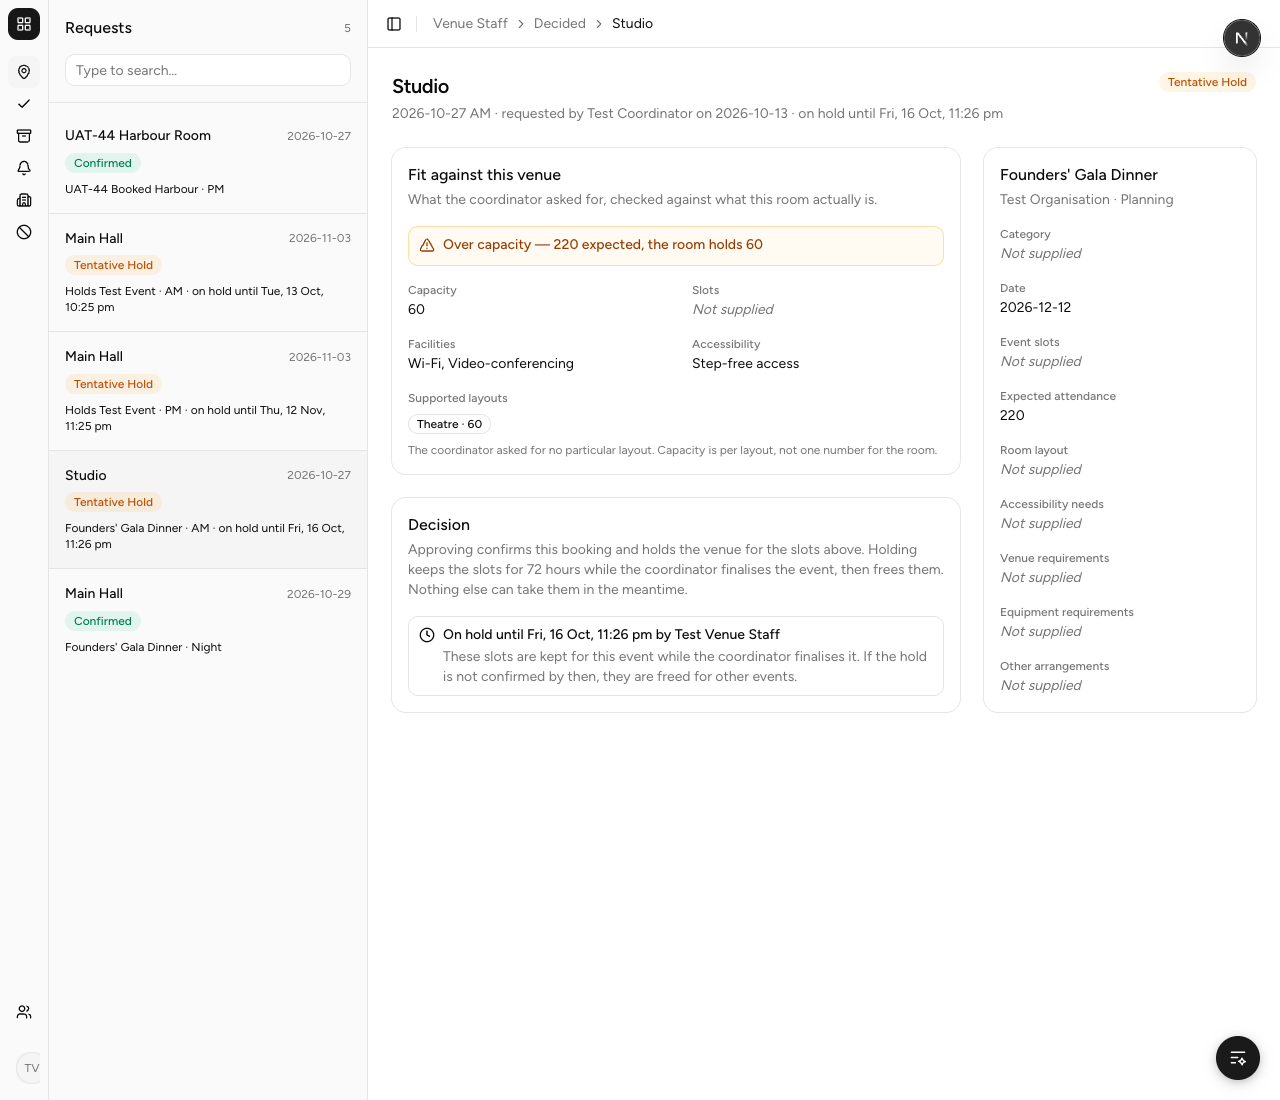
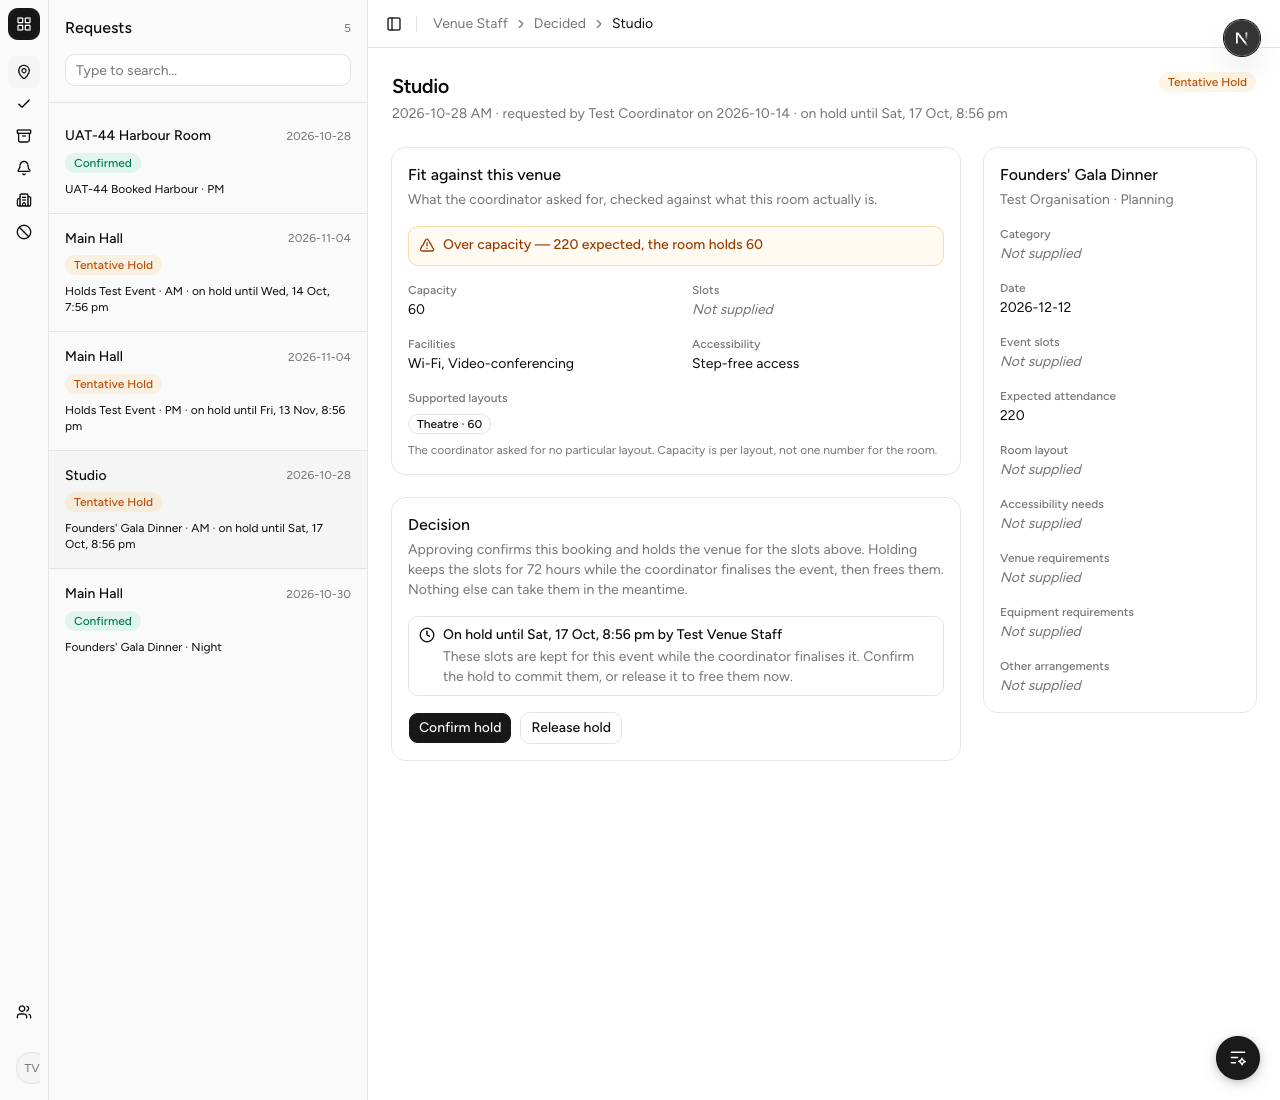
docs(testing): add venue hold cases 006 to 009 (SPM-219)
Confirm, release, a hold that ran out, and a block recorded after the hold.

diff --git a/docs/testing/VENUE_HOLD_MANUAL_TESTS.md b/docs/testing/VENUE_HOLD_MANUAL_TESTS.md
@@ -1,8 +1,9 @@
-# Venue Hold Manual Tests (SPM-218)
+# Venue Hold Manual Tests (SPM-218, SPM-219)
 
 ## Overview
 
-Browser checks for **SPM-218: Place a tentative hold on a venue slot**. Venue
+Browser checks for **SPM-218: Place a tentative hold on a venue slot** and **SPM-219: Confirm or
+release a tentative hold**. Venue
 Staff place a hold on a booking request while the Event Coordinator is
 finalising the event. The hold keeps the request's slots from everyone else for
 72 hours (`DEFAULT_HOLD_HOURS`), and then lapses (SPM-253). The rules behind it
@@ -10,14 +11,14 @@ are unit-tested (`decideBooking placing a hold (SPM-218)` and the use case, mapp
 repository tests tagged SPM-218) and the database function was proven on a scratch
 Postgres; these cases check the pages end to end against Supabase.
 
-These cases are registered as `TC-VHOLD-001`–`TC-VHOLD-005` in
+These cases are registered as `TC-VHOLD-001`–`TC-VHOLD-009` in
 [`../tests/manual-registry.csv`](../tests/manual-registry.csv). Report what you ran in the
 PR description's `## Manual test results` table; CI records it in
 [`manual-runs.csv`](../tests/manual-runs.csv) when the PR merges, so do not edit that file.
 The ticked boxes and screenshots below are the working record for this run.
 
-Confirming or releasing a hold is SPM-219, and a hold lapsing is SPM-253, so no case
-here confirms, releases or waits out a hold. A held booking is listed under **Decided**,
+A hold lapsing on its own is SPM-253, so no case waits out a hold: TC-VHOLD-008 sets an
+expiry in the past with SQL instead. A held booking is listed under **Decided**,
 beside Confirmed ones; the list filters did not change.
 
 ## Setup
@@ -97,8 +98,8 @@ The cases read the database with SQL. Run a query with
 
 ### Order
 
-Run the cases in order, TC-VHOLD-001 to 005: TC-VHOLD-002 and 005 start from the hold TC-VHOLD-001
-placed. Each case changes the data, so to run any of them again go back to step 1.
+Run the cases in order, TC-VHOLD-001 to 009: TC-VHOLD-002 and 005 start from the hold TC-VHOLD-001
+placed, TC-VHOLD-006 confirms that hold, TC-VHOLD-007 releases the one TC-VHOLD-002 placed, TC-VHOLD-008 uses booking C, and TC-VHOLD-009 uses booking D, held in TC-VHOLD-004. Each case changes the data, so to run any of them again go back to step 1.
 
 ---
 
@@ -126,14 +127,14 @@ placed. Each case changes the data, so to run any of them again go back to step 
 **Expected Result:**
 - Step 1: the Decision card offers **Approve booking**, **Place hold** and **Reject**.
 - Step 2: the card reads "On hold until <day, time> by Test Venue Staff", the header says
-  the same, the badge reads **Tentative Hold**, and no decision buttons remain (AC1).
+  the same, the badge reads **Tentative Hold**, and **Approve booking**, **Place hold** and **Reject** are gone. **Confirm hold** and **Release hold** are offered instead (SPM-219, see TC-VHOLD-006 and 007) (AC1).
 - Step 3: booking A has left **Requests** and is listed in **Decided** as "on hold until …" (AC3).
 - Step 4: the Studio row on *Booking requests for this event* shows **Tentative Hold** with
   "On hold until …" under it (AC3).
 - Step 5: `Tentative Hold`, about 72 hours left (between 71 and 73), decided by Test Venue Staff, and
   one audit row, `hold` (AC1).
 
-**Status:** [x] Pass [ ] Fail — 13/10/2026, run in Chrome via Playwright for JameszLau
+**Status:** [x] Pass [ ] Fail — 14/10/2026, run in Chrome via Playwright for JameszLau
 
 **Screenshots:** [step1-decision-card-with-hold](../screenshots/2026-10-13_TC-VHOLD-001_step1-decision-card-with-hold.png) · [step2-on-hold-card](../screenshots/2026-10-13_TC-VHOLD-001_step2-on-hold-card.png) · [step3-decided-list](../screenshots/2026-10-13_TC-VHOLD-001_step3-decided-list.png) · [step4-coordinator-row](../screenshots/2026-10-13_TC-VHOLD-001_step4-coordinator-row.png)
 
@@ -160,7 +161,7 @@ placed. Each case changes the data, so to run any of them again go back to step 
 - Booking B was **Requested** beside booking A when A was held: a request still waiting
   blocks nothing, so it did not stop the hold (AC2).
 
-**Status:** [x] Pass [ ] Fail — 13/10/2026, run in Chrome via Playwright for JameszLau
+**Status:** [x] Pass [ ] Fail — 14/10/2026, run in Chrome via Playwright for JameszLau
 
 **Screenshots:** [step1-search-lists-harbour-room](../screenshots/2026-10-13_TC-VHOLD-002_step1-search-lists-harbour-room.png) · [step3-search-without-harbour-room](../screenshots/2026-10-13_TC-VHOLD-002_step3-search-without-harbour-room.png) · [step4-second-hold-refused](../screenshots/2026-10-13_TC-VHOLD-002_step4-second-hold-refused.png) · [step5-other-slot-unaffected](../screenshots/2026-10-13_TC-VHOLD-002_step5-other-slot-unaffected.png)
 
@@ -186,7 +187,7 @@ placed. Each case changes the data, so to run any of them again go back to step 
 - Step 2: refused with "The venue is unavailable for <T + 6> AM" (AC2).
 - Step 3: both are `Requested` with no expiry, and no audit rows (AC2).
 
-**Status:** [x] Pass [ ] Fail — 13/10/2026, run in Chrome via Playwright for JameszLau
+**Status:** [x] Pass [ ] Fail — 14/10/2026, run in Chrome via Playwright for JameszLau
 
 **Screenshots:** [step1-clash-with-confirmed](../screenshots/2026-10-13_TC-VHOLD-003_step1-clash-with-confirmed.png) · [step2-blocked-slot](../screenshots/2026-10-13_TC-VHOLD-003_step2-blocked-slot.png)
 
@@ -214,7 +215,7 @@ placed. Each case changes the data, so to run any of them again go back to step 
 - Step 2: accepted: booking D reads "On hold until …" (AC2).
 - Step 3: the expired hold on the AM slot is now `Released`, with a `release expired hold` audit row; the live PM hold is unchanged and booking D is `Tentative Hold` (AC2).
 
-**Status:** [x] Pass [ ] Fail — 13/10/2026, run in Chrome via Playwright for JameszLau
+**Status:** [x] Pass [ ] Fail — 14/10/2026, run in Chrome via Playwright for JameszLau
 
 **Screenshots:** [step1-live-hold-refuses](../screenshots/2026-10-13_TC-VHOLD-004_step1-live-hold-refuses.png) · [step2-expired-hold-does-not-block](../screenshots/2026-10-13_TC-VHOLD-004_step2-expired-hold-does-not-block.png)
 
@@ -222,7 +223,7 @@ placed. Each case changes the data, so to run any of them again go back to step 
 
 ### TC-VHOLD-005: Only Venue Staff, and only a waiting request (AC1, AC4)
 
-**What this tests:** Who may place a hold, and on what. Only Venue Staff can: the coordinator is turned away with an access-denied page (403) and sees none of the booking, and nothing changes. And only a request still *waiting* can be held: a booking already on hold (booking A) or already Confirmed (booking X) shows no Place hold button, or any other decision button.
+**What this tests:** Who may place a hold, and on what. Only Venue Staff can: the coordinator is turned away with an access-denied page (403) and sees none of the booking, and nothing changes. And only a request still *waiting* can be held: a booking already on hold (booking A) or already Confirmed (booking X) shows no Place hold, Approve booking or Reject button. (A live hold does offer Confirm hold and Release hold, which TC-VHOLD-006 to 008 cover.)
 
 **Preconditions:** After TC-VHOLD-001 (booking A is on hold) and the fixture's Confirmed booking X.
 
@@ -232,8 +233,138 @@ placed. Each case changes the data, so to run any of them again go back to step 
 
 **Expected Result:**
 - Step 1: the access-denied screen with a 403 (SPM-16), and none of the booking's details; nothing changes (AC4).
-- Step 2: neither the held booking nor the Confirmed one offers **Place hold**, or any decision button (AC1).
+- Step 2: neither the held booking nor the Confirmed one offers **Place hold**, **Approve booking** or **Reject** (AC1). The held booking offers only **Confirm hold** and **Release hold**; the Confirmed one offers no button.
 
-**Status:** [x] Pass [ ] Fail — 13/10/2026, run in Chrome via Playwright for JameszLau
+**Status:** [x] Pass [ ] Fail — 14/10/2026, run in Chrome via Playwright for JameszLau
 
-**Screenshots:** [step1-coordinator-denied](../screenshots/2026-10-13_TC-VHOLD-005_step1-coordinator-denied.png) · [step2-confirmed-booking-no-buttons](../screenshots/2026-10-13_TC-VHOLD-005_step2-confirmed-booking-no-buttons.png) · [step2-held-booking-no-buttons](../screenshots/2026-10-13_TC-VHOLD-005_step2-held-booking-no-buttons.png)
+**Screenshots:** [step1-coordinator-denied](../screenshots/2026-10-13_TC-VHOLD-005_step1-coordinator-denied.png) · [step2-confirmed-booking-no-buttons](../screenshots/2026-10-13_TC-VHOLD-005_step2-confirmed-booking-no-buttons.png) · [step2-held-booking-confirm-release-only](../screenshots/2026-10-14_TC-VHOLD-005_step2-held-booking-confirm-release-only.png)
+
+---
+
+### TC-VHOLD-006: Confirm a live hold (AC1, AC3, AC5)
+
+**What this tests:** A hold is temporary. Confirming it makes it a firm booking: the booking becomes **Confirmed**, the hold's expiry disappears, and the slots stay taken. The database records who confirmed and when, and the coordinator is told, exactly as for an approval. Here Venue Staff confirm booking A, the hold placed in TC-VHOLD-001.
+
+**Preconditions:** After TC-VHOLD-001: booking A is on hold for Studio, T AM. Signed in as `venue@test.com`.
+
+**Steps:**
+1. Open booking A (`/staff/venue/<booking A>`) and read the **Decision** card.
+2. Click **Confirm hold**.
+3. Open **Decided**.
+4. Open booking B (the other Studio request for T AM) and click **Place hold**.
+5. Sign in as `coordinator@test.com`, open the Founders' Gala Dinner and choose **Request a venue**.
+6. Read the database:
+   ```sql
+   select status, hold_expires_at, decided_by_user_account_id from booking where booking_id = <booking A>;
+   select action, actor_user_account_id from audit_record where entity_type = 'booking' and entity_id = <booking A> order by audit_record_id;
+   select recipient_user_account_id, status, message_content from notification where trigger_scenario = 'venue-booking-decided' and related_booking_id = <booking A>;
+   ```
+
+**Expected Result:**
+- Step 1: the card reads "On hold until <day, time> by Test Venue Staff" and offers **Confirm hold** and **Release hold**, and no Approve or Reject.
+- Step 2: the card reads "Already decided — Confirmed by Test Venue Staff", the badge reads **Confirmed**, and no buttons remain (AC1).
+- Step 3: booking A is listed in **Decided** as Confirmed.
+- Step 4: refused, naming T and AM. The confirmed booking still owns the slot (AC1).
+- Step 5: the Studio row reads **Confirmed**, with no "On hold until" line (AC1).
+- Step 6: `Confirmed` with an empty expiry; two audit rows, `hold` then `confirm hold`, the second by Test Venue Staff (AC3); one `Sent` notification for the coordinator, reading "Studio approved for Founders' Gala Dinner", the same as for an approval (AC5).
+
+**Status:** [x] Pass [ ] Fail — 14/10/2026, run in Chrome via Playwright for JameszLau
+
+**Screenshots:** [step1-hold-offers-confirm-and-release](../screenshots/2026-10-14_TC-VHOLD-006_step1-hold-offers-confirm-and-release.png) · [step2-confirmed](../screenshots/2026-10-14_TC-VHOLD-006_step2-confirmed.png) · [step5-coordinator-row-confirmed](../screenshots/2026-10-14_TC-VHOLD-006_step5-coordinator-row-confirmed.png)
+
+---
+
+### TC-VHOLD-007: Release a live hold (AC2, AC3, AC6)
+
+**What this tests:** Releasing gives a hold up, so its slots go free **at once**: the booking becomes **Released**, venue search lists the venue as available again, and another request can take the slot. The database records who released and when, and the coordinator is told it was released, so they do not keep thinking they hold the venue. Here Venue Staff release booking G, the UAT-44 Harbour Room hold placed in TC-VHOLD-002.
+
+**Preconditions:** After TC-VHOLD-002: booking G is on hold for UAT-44 Harbour Room, T + 3 AM, and Harbour Room is not listed by a search on that slot. Signed in as `venue@test.com`.
+
+**Steps:**
+1. Open booking G and click **Release hold**.
+2. Open **Archive**.
+3. As `coordinator@test.com`, open **Find a venue** (`/staff/coordinator/venues`) and search on T + 3, **AM**.
+4. As the coordinator, open the Founders' Gala Dinner, choose **Request a venue**, and request **UAT-44 Harbour Room** on T + 3, **AM**. This is a new request; call it booking G2.
+5. As `venue@test.com`, open booking G2 and click **Place hold**.
+6. Read the database:
+   ```sql
+   select status from booking where booking_id = <booking G>;
+   select action, actor_user_account_id from audit_record where entity_type = 'booking' and entity_id = <booking G> order by audit_record_id;
+   select recipient_user_account_id, status, message_content from notification where trigger_scenario = 'venue-booking-decided' and related_booking_id = <booking G>;
+   ```
+
+**Expected Result:**
+- Step 1: the card reads "Already decided — Released by Test Venue Staff", the badge reads **Released**, and no buttons remain (AC2).
+- Step 2: booking G is listed in **Archive**, not in Requests or Decided.
+- Step 3: **UAT-44 Harbour Room** is listed again (AC2).
+- Step 5: accepted. Booking G2 reads "On hold until …", because the released slot was free at once (AC2).
+- Step 6: `Released`; two audit rows, `hold` then `release hold` (AC3); one `Sent` notification for the coordinator, reading "UAT-44 Harbour Room hold released for Founders' Gala Dinner" (AC6).
+
+**Status:** [x] Pass [ ] Fail — 14/10/2026, run in Chrome via Playwright for JameszLau
+
+**Screenshots:** [step1-released](../screenshots/2026-10-14_TC-VHOLD-007_step1-released.png) · [step3-search-lists-harbour-room-again](../screenshots/2026-10-14_TC-VHOLD-007_step3-search-lists-harbour-room-again.png) · [step5-new-hold-accepted](../screenshots/2026-10-14_TC-VHOLD-007_step5-new-hold-accepted.png)
+
+---
+
+### TC-VHOLD-008: Only a live hold can be confirmed or released (AC4)
+
+**What this tests:** Confirming or releasing needs a hold that is still running. If it ran out, or was already decided, the action is refused with a message and nothing changes. The sharpest case is a hold that expires **while the page is open**: Venue Staff load the page, the hold runs out, and the click then comes too late. A hold that ran out is expired, so its slots no longer belong to the event.
+
+**Preconditions:** After TC-VHOLD-006: booking A is Confirmed. Booking C (Studio, T + 1 PM) is still **Requested**. Signed in as `venue@test.com`.
+
+**Steps:**
+1. Open booking C and click **Place hold**. Leave the page open.
+2. Make that hold run out. In the database:
+   ```sql
+   update booking set hold_expires_at = now() - interval '1 minute' where booking_id = <booking C>;
+   ```
+3. On the page still open, click **Confirm hold**.
+4. Reload the page.
+5. Open booking A (Confirmed in TC-VHOLD-006).
+6. Open booking B (still Requested).
+7. Read the database:
+   ```sql
+   select status from booking where booking_id = <booking C>;
+   select action from audit_record where entity_type = 'booking' and entity_id = <booking C> order by audit_record_id;
+   ```
+
+**Expected Result:**
+- Step 3: refused with "This hold has expired or already been decided, so it can no longer be confirmed or released."; the booking is not confirmed (AC4).
+- Step 4: the card reads "Hold expired <day, time>" and offers **no** Confirm hold or Release hold (AC4).
+- Step 5: booking A, already decided, offers no Confirm hold or Release hold (AC4).
+- Step 6: booking B, still waiting, offers Approve, Place hold and Reject, and no Confirm hold or Release hold (AC4).
+- Step 7: booking C is still `Tentative Hold` and has one audit row, `hold`: the refused confirmation wrote nothing (AC4).
+
+**Status:** [x] Pass [ ] Fail — 14/10/2026, run in Chrome via Playwright for JameszLau
+
+**Screenshots:** [step3-refused-after-expiry](../screenshots/2026-10-14_TC-VHOLD-008_step3-refused-after-expiry.png) · [step4-hold-expired](../screenshots/2026-10-14_TC-VHOLD-008_step4-hold-expired.png) · [step5-confirmed-offers-neither](../screenshots/2026-10-14_TC-VHOLD-008_step5-confirmed-offers-neither.png)
+
+---
+
+### TC-VHOLD-009: A block recorded after the hold stops it being confirmed (AC7)
+
+**What this tests:** Confirming commits the slots, just as an approval does, and a venue that is blocked (maintenance, renovation) cannot be committed. So if Venue Staff block a venue **after** a hold was placed on it, confirming that hold is refused, as approving a request over a block is. The hold is left as it was. Releasing is still allowed, because giving a hold up needs nothing free. Here the hold is booking D, placed in TC-VHOLD-004 on Main Hall, day H, AM.
+
+**Preconditions:** After TC-VHOLD-004: booking D is on hold for Main Hall, day H, AM. Signed in as `venue@test.com`.
+
+**Steps:**
+1. Open `/staff/venue/unavailability` and block **Main Hall** on day H for **AM**, reason **Maintenance**.
+2. Open booking D and read the **Decision** card.
+3. Click **Confirm hold**.
+4. Click **Release hold**.
+5. Read the database:
+   ```sql
+   select status from booking where booking_id = <booking D>;
+   select action from audit_record where entity_type = 'booking' and entity_id = <booking D> order by audit_record_id;
+   ```
+
+**Expected Result:**
+- Step 2: the card still reads "On hold until …" and offers **Confirm hold** and **Release hold**: a block does not change an existing hold.
+- Step 3: refused with "The venue is unavailable for <day H> AM. Choose other slots or another venue."; booking D stays on hold (AC7).
+- Step 4: accepted: the card reads "Already decided — Released by Test Venue Staff" (AC7).
+- Step 5: `Released`; the audit rows are `hold` then `release hold`, with no `confirm hold`: the refused confirmation wrote nothing (AC7).
+
+**Status:** [x] Pass [ ] Fail — 14/10/2026, run in Chrome via Playwright for JameszLau
+
+**Screenshots:** [step3-confirm-refused-over-block](../screenshots/2026-10-14_TC-VHOLD-009_step3-confirm-refused-over-block.png) · [step4-released-over-block](../screenshots/2026-10-14_TC-VHOLD-009_step4-released-over-block.png)
+
